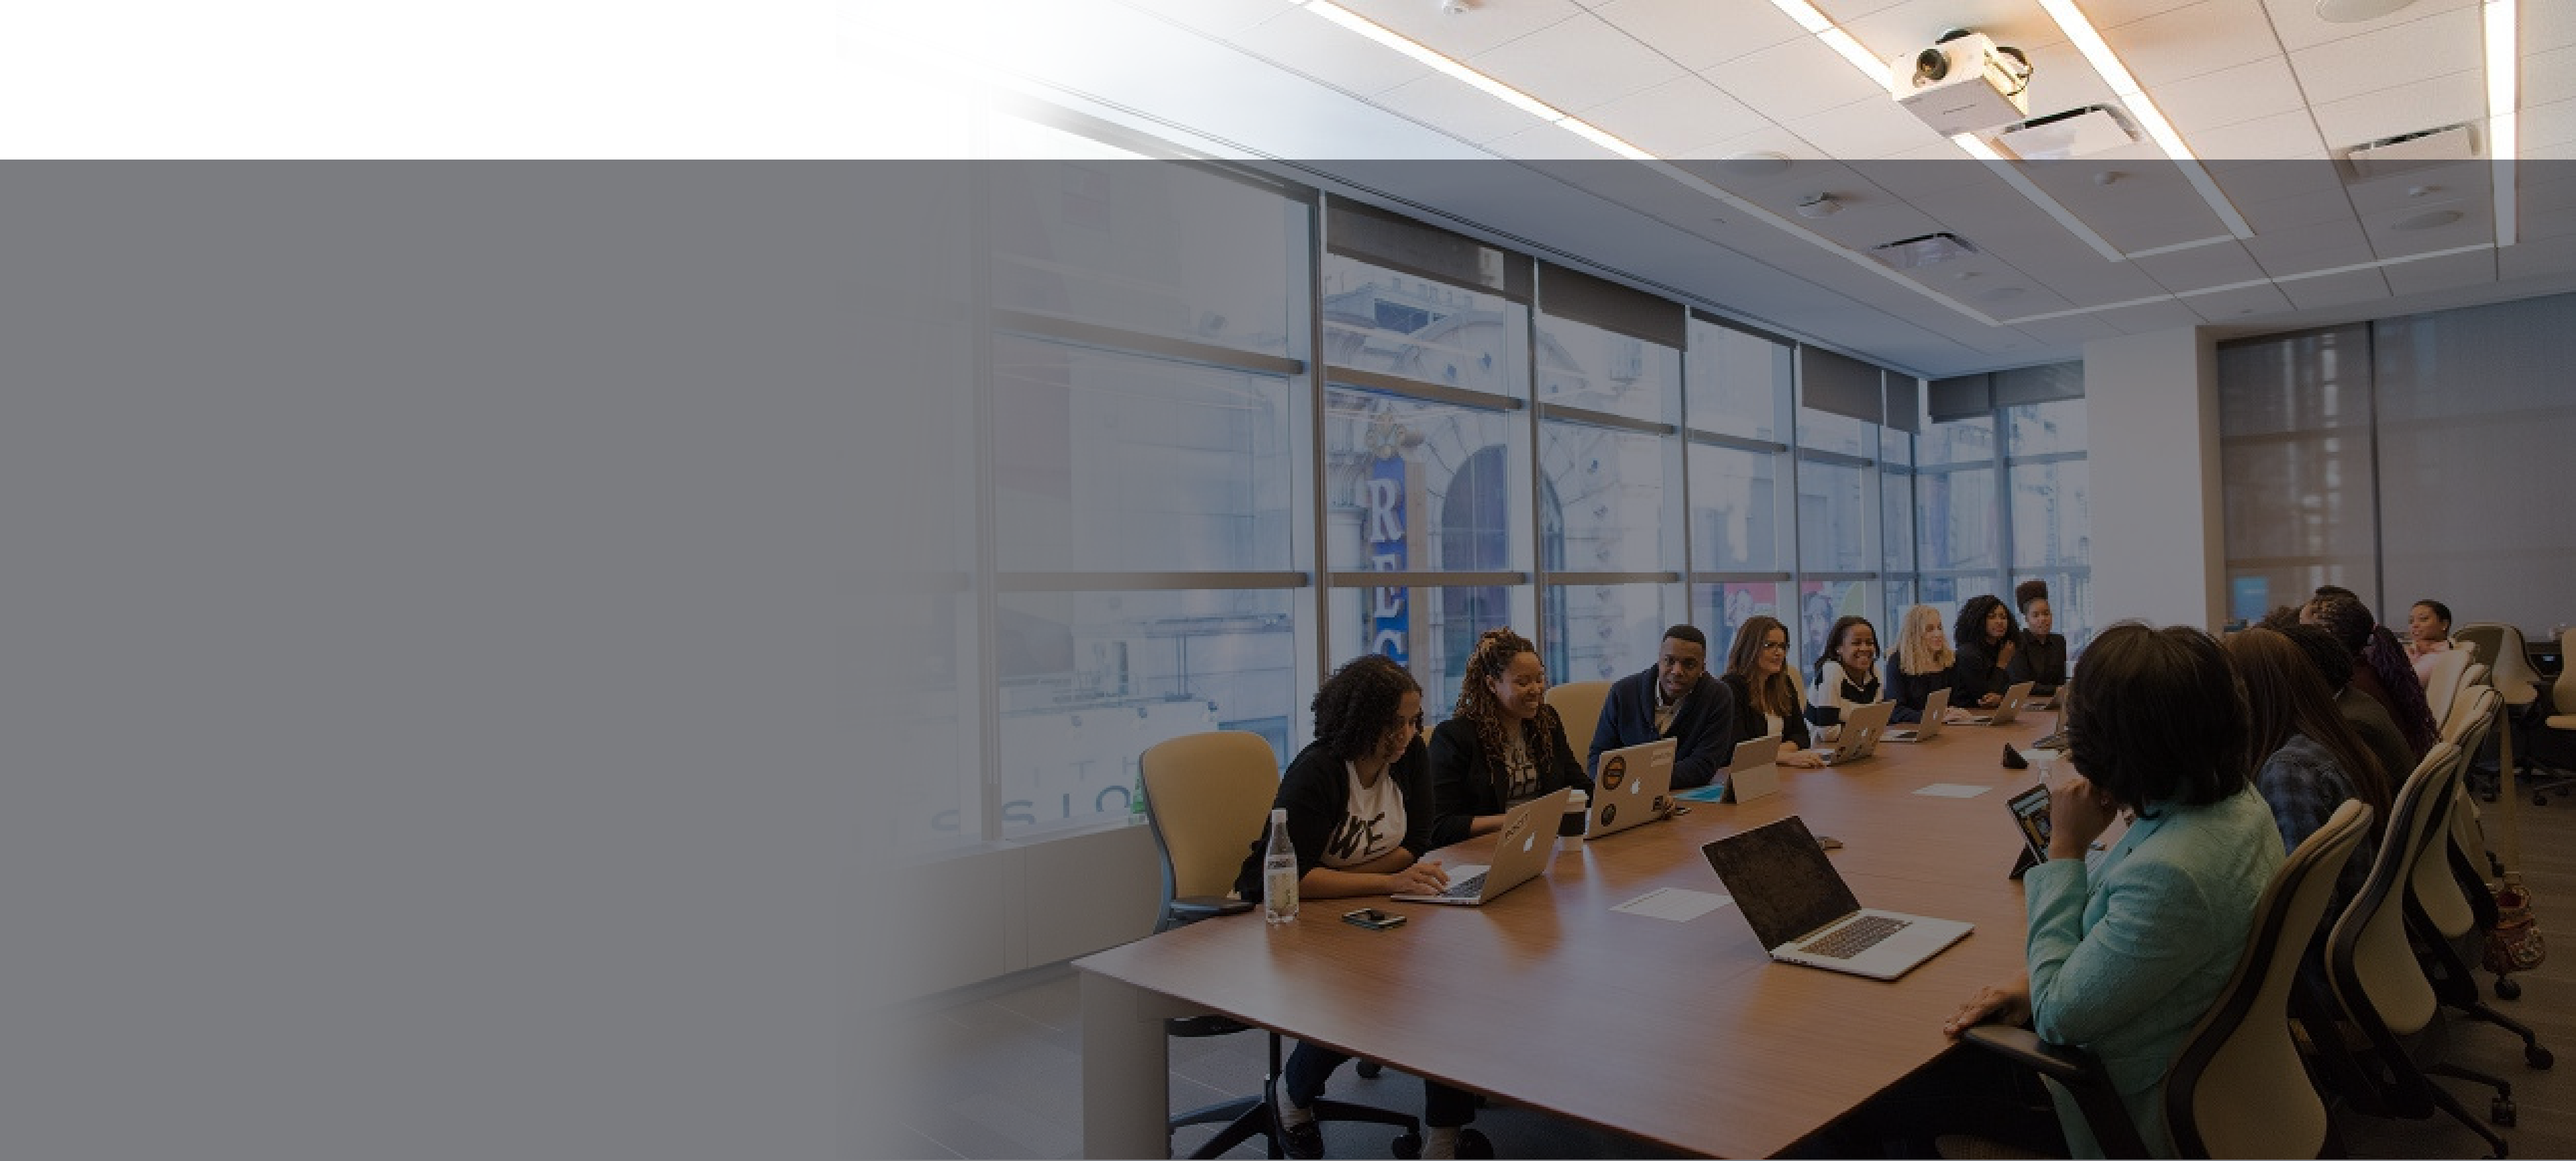
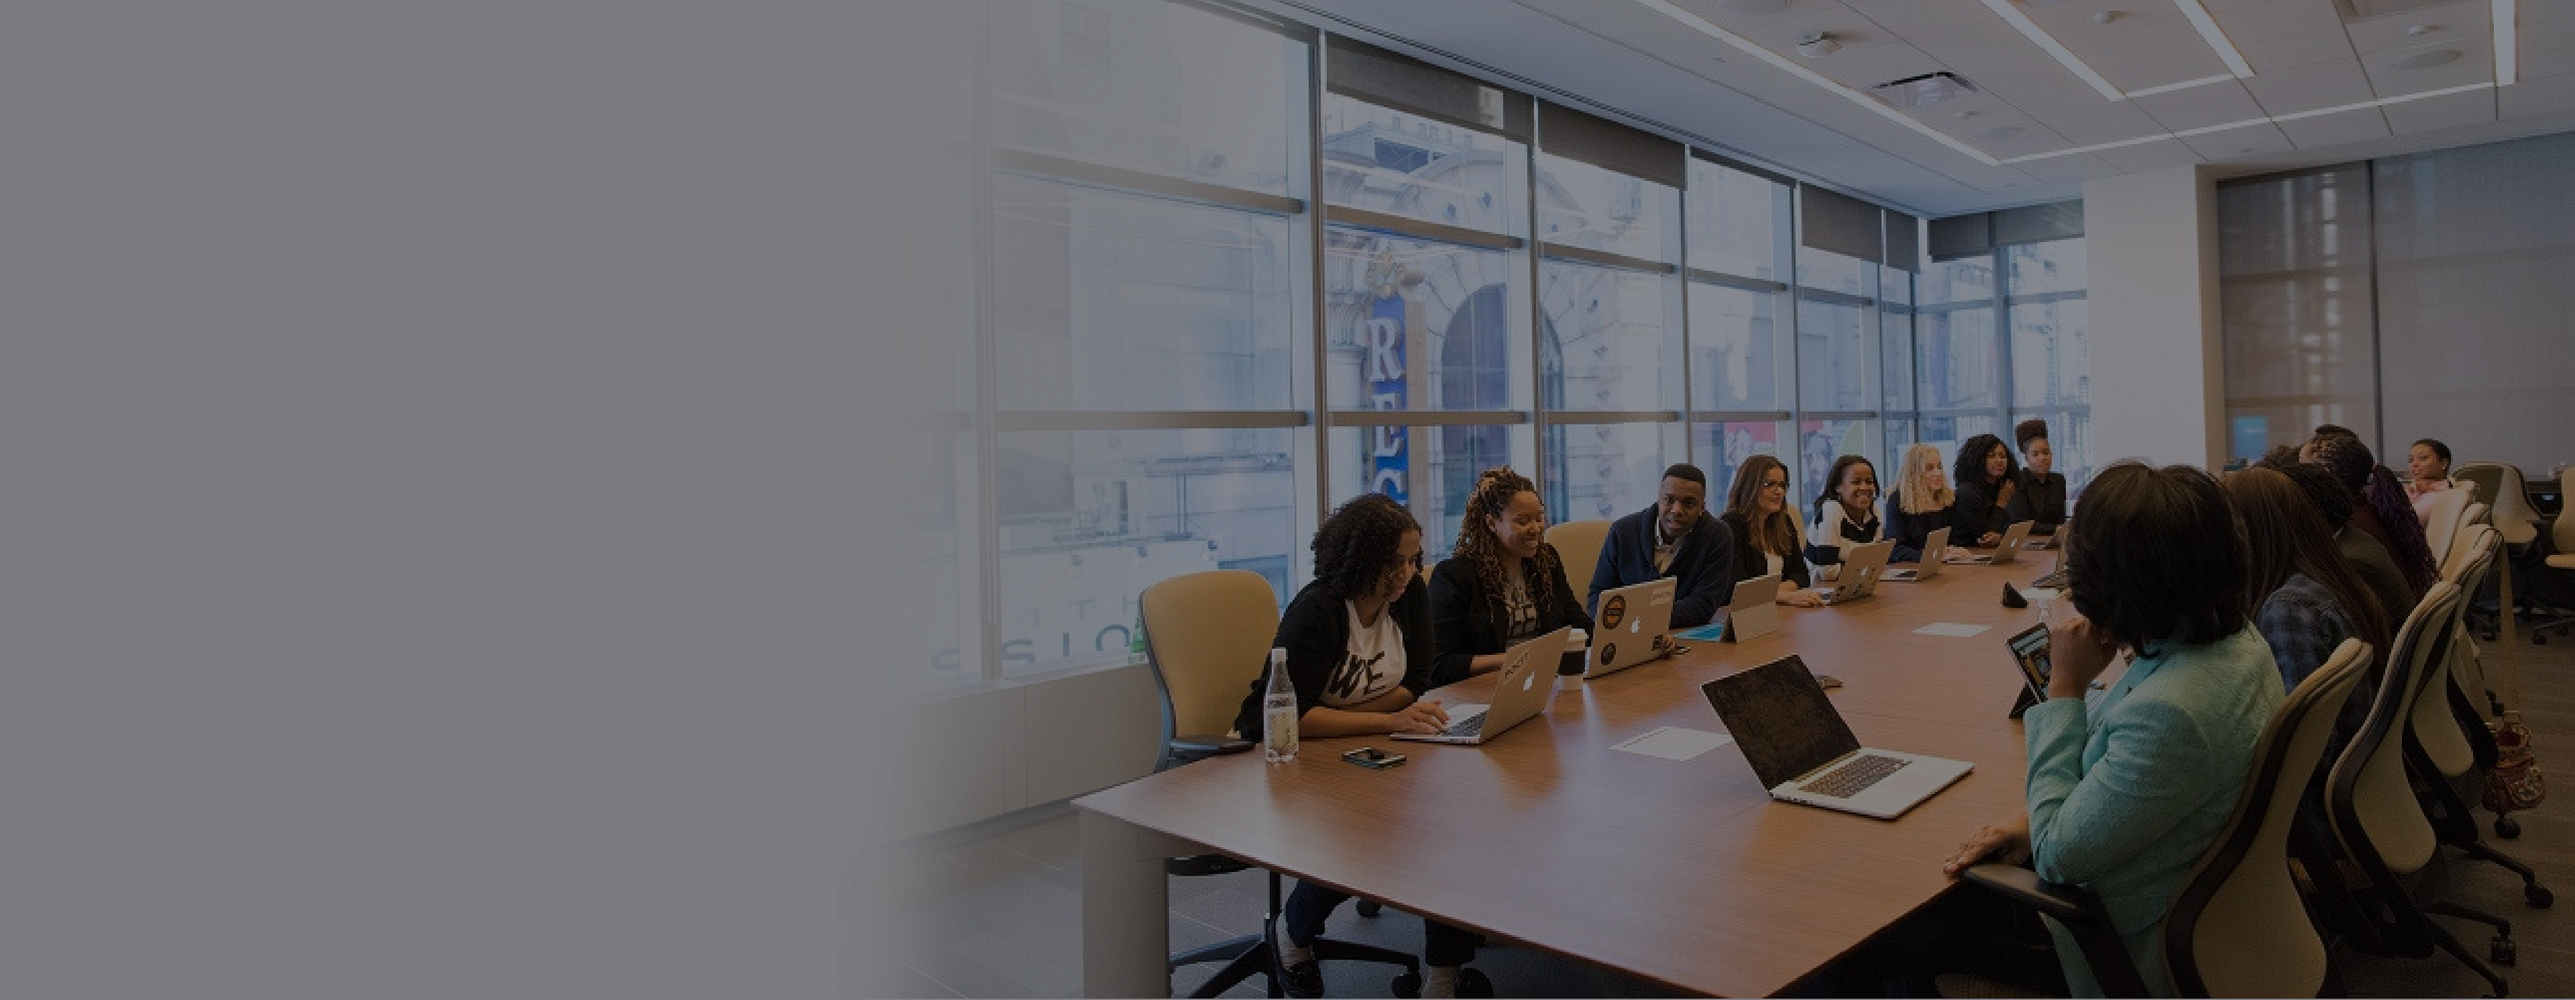
cambios

diff --git a/css/style.css b/css/style.css
@@ -84,7 +84,7 @@ a {
 }
 .header .content-header {
     width: 100%;
-    max-width: 1195px;
+    max-width: 1310px;
     margin: auto;
 }
 .content-header .top-header {
@@ -150,7 +150,7 @@ a {
 }
 .bot-header .content-bot {
     width: 100%;
-    max-width: 1195px;
+    max-width: 1310px;
     display: flex;
     justify-content: space-between;
     align-items: center;
@@ -159,11 +159,12 @@ a {
     .content-bot .navigator {
         display: flex;
         align-items: center;
+        gap: 20px;
     }
     .content-bot .navigator .link-navi {
         font-size: 18px;
         color: var(--colorWhite);
-        padding: 15px 40px 15px 40px;
+        padding: 15px 45px;
         border-bottom: 8px solid transparent;
         margin-bottom: -8px;
         z-index: 99;
@@ -217,14 +218,14 @@ a {
 }
 .cover-sg {
     width: 100%;
-    background-image: url(../img/banner-01.webp);
+    background-image: url(../img/banner-02.png);
     background-size: cover;
     background-repeat: no-repeat;
     background-position: center;
 }
 .cover-sg-02 {
     width: 100%;
-    background-image: url(../img/banner-02.jpg);
+    background-image: url(../img/banner-03.png);
     background-size: cover;
     background-repeat: no-repeat;
     background-position: center;
@@ -235,7 +236,7 @@ a {
 .cover .content-sg {
     width: 100%;
     height: 745px;
-    background-color: #00000086;
+    background-color: #00000033;
 }
 .content-cover .carousel-cover {
     width: 100%;
@@ -245,19 +246,19 @@ a {
         width: 100%;
         height: 747px;
         display: flex;
-        background-image: url(../img/conference.jpg);
+        background-image: url(../img/banner-01.png);
         background-repeat: no-repeat;
         background-size: cover;
         background-position: right;
     }
     .carousel-cover .card-cover .pos-card {
         width: 100%;
-        height: 100%;
+        height: 747px;
         background-color: #00000073;
     }
         .card-cover .content-card {
             width: 100%;
-            max-width: 1200px;
+            max-width: 1310px;
             margin: 0 auto;
             margin-top: 133px;
         }
@@ -267,7 +268,7 @@ a {
                 display: flex;
                 flex-direction: column;
                 align-items: flex-start;
-                padding: 50px 100px 50px 100px;
+                padding: 40px 85px 50px 100px;
                 background-color: #ffffffd3;
             }
             .pos-card .content-card .box-cover .subtitle-box {
@@ -339,7 +340,7 @@ a {
     }
 .content-cover .pos-cover {
     width: 100%;
-    max-width: 1150px;
+    max-width: 1320px;
     margin: 0 auto;
     padding-top: 90px;
 }
@@ -347,7 +348,7 @@ a {
         width: 100%;
         max-width: 710px;
         background-color: #ffffffe0;
-        padding: 50px 50px 100px 100px;
+        padding: 40px 45px 85px 100px;
         display: flex;
         flex-direction: column;
     }
@@ -633,7 +634,8 @@ background: linear-gradient(180deg, rgba(244,244,244,1) 22%, rgba(250,250,250,1)
 /* ----Row-vis----- */
 .content-if .head-if {
     width: 100%;
-    padding: 0px 80px;
+    max-width: 1466px;
+    margin: auto;
     margin-bottom: 80px;
     text-align: center;
 }
@@ -650,7 +652,8 @@ background: linear-gradient(180deg, rgba(244,244,244,1) 22%, rgba(250,250,250,1)
 }
 .content-if .row-vis {
     width: 100%;
-    padding: 0px 100px;
+    max-width: 1310px;
+    margin: auto;
     display: grid;
     grid-template-columns: 1fr 1fr;
     gap: 100px;

diff --git a/portafolio.html b/portafolio.html
@@ -17,8 +17,8 @@
 
     <title>Portafolio | Aymsa</title>
 
-    <link rel="stylesheet" href="css/style.css?v=1.7">
-    <link rel="stylesheet" href="css/responsive.css?v=1.7">
+    <link rel="stylesheet" href="css/style.css?v=1.8">
+    <link rel="stylesheet" href="css/responsive.css?v=1.8">
 </head>
 <body>
 
@@ -132,7 +132,7 @@
             <div class="content-bot">
                 <nav class="navigator">
                     <a href="index.html" class="link-navi">Inicio</a>
-                    <a href="quienes-somos.html" class="link-navi">Qué es Aymsa</a>
+                    <a href="quienes-somos.html" class="link-navi">Quiénes somos</a>
                     <a href="portafolio.html" class="link-navi link-active">Portafolio de servicios</a>
                     <a href="#" class="link-navi">Portal clientes</a>
                 </nav>

diff --git a/index.html b/index.html
@@ -17,8 +17,8 @@
 
     <title>Home | Aymsa</title>
 
-    <link rel="stylesheet" href="css/style.css?v=1.7">
-    <link rel="stylesheet" href="css/responsive.css?v=1.7">
+    <link rel="stylesheet" href="css/style.css?v=1.8">
+    <link rel="stylesheet" href="css/responsive.css?v=1.8">
 </head>
 <body>
     <!-- -------Whatsapp-float------ -->

diff --git a/quienes-somos.html b/quienes-somos.html
@@ -17,8 +17,8 @@
 
     <title>¿Quiénes somos? | Aymsa</title>
 
-    <link rel="stylesheet" href="css/style.css?v=1.7">
-    <link rel="stylesheet" href="css/responsive.css?v=1.7">
+    <link rel="stylesheet" href="css/style.css?v=1.8">
+    <link rel="stylesheet" href="css/responsive.css?v=1.8">
 </head>
 <body>
 
